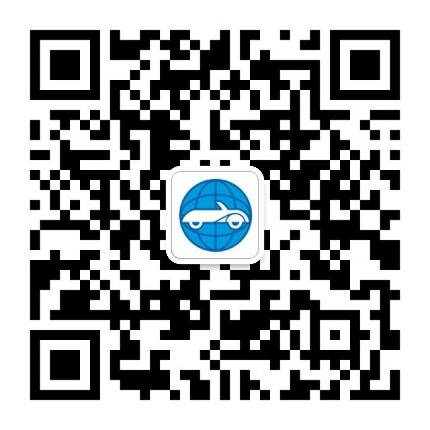
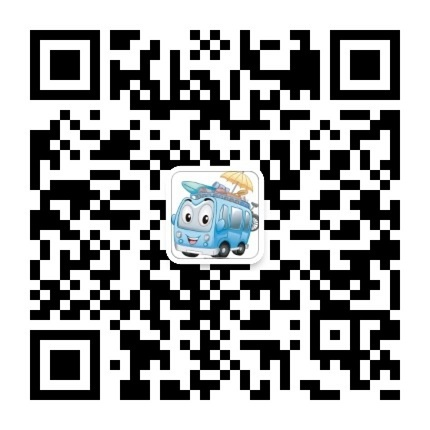
update

diff --git a/app/Http/Controllers/WeChatsController.php b/app/Http/Controllers/WeChatsController.php
@@ -120,12 +120,12 @@ class WeChatsController extends Controller
                     [
                         "type" => "view",
                         "name"=>"违章处理",
-                        "url"=>"http://www.cttx-zbx.com/violates/inquire",
+                        "url"=>"http://www.weizhangxiaoxiao.com/violates/inquire",
                     ],
                     [
                         "type" => "view",
                         "name"=>"罚款缴纳",
-                        "url"=>"http://www.cttx-zbx.com/penalties/inquire",
+                        "url"=>"http://www.weizhangxiaoxiao.com/penalties/inquire",
                     ]
                 ]
             ],
@@ -135,17 +135,17 @@ class WeChatsController extends Controller
                     [
                         "type" => "view",
                         "name"=>"汽车审验",
-                        "url"=>"http://www.cttx-zbx.com/",
+                        "url"=>"http://www.weizhangxiaoxiao.com/",
                     ],
                     [
                         "type" => "view",
                         "name"=>"过户上户",
-                        "url"=>"http://www.cttx-zbx.com/",
+                        "url"=>"http://www.weizhangxiaoxiao.com/",
                     ],
                     [
                         "type" => "view",
                         "name"=>"事故查询",
-                        "url"=>"http://www.cttx-zbx.com/",
+                        "url"=>"http://www.weizhangxiaoxiao.com/",
                     ]
                 ]
             ],
@@ -155,12 +155,12 @@ class WeChatsController extends Controller
                     [
                         "type" => "view",
                         "name"=>"订单信息",
-                        "url"=>"http://www.cttx-zbx.com/",
+                        "url"=>"http://www.weizhangxiaoxiao.com/",
                     ],
                     [
                         "type" => "view",
                         "name"=>"联系我们",
-                        "url"=>"http://www.cttx-zbx.com/contact/us",
+                        "url"=>"http://www.weizhangxiaoxiao.com/contact/us",
                     ]
                 ]
             ]
@@ -184,11 +184,11 @@ class WeChatsController extends Controller
     public function send_message_to_server_paid($name, $bz, $order_money, $remark)
     {
         $app = app('wechat.official_account');
-        $serverUser = ["oiGyj0gWZdBklqN79Rmq8MS9cRq4", "oiGyj0vmN3G2pLa2PRNkZUa2aXbA", "oiGyj0im2uCtxHX3_oFct-BDyOuA"];
+        $serverUser = ["oiGyj0gWZdBklqN79Rmq8MS9cRq4", "oiGyj0vmN3G2pLa2PRNkZUa2aXbA"];
         foreach ($serverUser as $user) {
             $app->template_message->send([
                 'touser' => $user,
-                'template_id' => 'PaVE-B8jRrmxJbbA1wYr1ccajHwPA86iy8Pym38PO68',
+                'template_id' => '9qcIi1wu2OZGH8FLmgmN1_p8tnwteD1JCBDBf4zjxF4',
                 'url' => 'https://easywechat.org',
                 'data' => [
                     'first' => '通知',
@@ -216,7 +216,7 @@ class WeChatsController extends Controller
 //        foreach ($serverUser as $user) {
             $app->template_message->send([
                 'touser' => $useropenid,
-                'template_id' => 'woJutUJcePy4JzTM6s3uRK2AOYy6BAQS_dGO8Du1SCw',
+                'template_id' => 'TXyFUPqrBzQDf33dCh49nezHr3RdLQrP7VrrodKejF0',
                 'url' => 'http://www.cttx-zbx.com/order/get',
                 'data' => [
                     'first' => '付款成功提醒',

diff --git a/resources/views/corporation/contact_us.blade.php b/resources/views/corporation/contact_us.blade.php
@@ -18,25 +18,25 @@
                     <div class="form-group">
                         <div class="input-group">
                             <div class="input-group-addon">{{ __('座 机') }}</div>
-                            <a type="text" class="form-control" href="tel:028-62561692">028-62561692</a>
+                            <a type="text" class="form-control" href="tel:028-62561692">028-64363802</a>
                         </div>
                     </div>
                     <div class="form-group">
                         <div class="input-group">
                             <div class="input-group-addon">{{ __('手 机') }}</div>
-                            <a type="text" class="form-control" href="tel:13194893073">13194893073</a>
+                            <a type="text" class="form-control" href="tel:13194893073">13308000058</a>
                         </div>
                     </div>
                     <div class="form-group">
                         <div class="input-group">
                             <div class="input-group-addon">{{ __('邮 件') }}</div>
-                            <a type="text" class="form-control" href="mailto:3325815724@qq.com">3325815724@qq.com</a>
+                            <a type="text" class="form-control" href="mailto:3325815724@qq.com">68518537@qq.com</a>
                         </div>
                     </div>
                     <div class="form-group">
                         <div class="input-group">
                             <div class="input-group-addon">{{ __('微 信') }}</div>
-                            <a type="text" class="form-control" href="tel:13194893073">13194893073</a>
+                            <a type="text" class="form-control" href="tel:13194893073">13308000058</a>
                         </div>
                     </div>
                     <div class="form-group">
@@ -45,7 +45,7 @@
                     <div class="form-group">
                         <div class="input-group">
                             <div class="input-group-addon">{{ __('公众号') }}</div>
-                            <a type="text" class="form-control" href="https://mp.weixin.qq.com/mp/profile_ext?action=home&__biz=MzUzMzkyNTUxMg==#wechat_redirect" >车途天下</a>
+                            <a type="text" class="form-control" href="https://mp.weixin.qq.com/mp/profile_ext?action=home&__biz=MzUzMzkyNTUxMg==#wechat_redirect" >违章消消</a>
                         </div>
                     </div>
                     <div class="form-group">

diff --git a/storage/framework/views/a0a0170490219315c0baf028560eb5ef6cd344b9.php b/storage/framework/views/a0a0170490219315c0baf028560eb5ef6cd344b9.php
@@ -48,7 +48,7 @@
                     <div class="form-group">
                         <div class="input-group">
                             <div class="input-group-addon"><?php echo e(__('公众号')); ?></div>
-                            <a type="text" class="form-control" href="https://mp.weixin.qq.com/mp/profile_ext?action=home&__biz=MzUzMzkyNTUxMg==#wechat_redirect" >车途天下</a>
+                            <a type="text" class="form-control" href="https://mp.weixin.qq.com/mp/profile_ext?action=home&__biz=MzUzMzkyNTUxMg==#wechat_redirect" >违章消消</a>
                         </div>
                     </div>
                     <div class="form-group">

diff --git a/config/adminlte.php b/config/adminlte.php
@@ -13,7 +13,7 @@ return [
     |
     */
 
-    'title' => '车途天下',
+    'title' => '违章消消',
 
     'title_prefix' => '',
 
@@ -30,9 +30,9 @@ return [
     |
     */
 
-    'logo' => '<b>车途</b>天下',
+    'logo' => '<b>违章</b>消消',
 
-    'logo_mini' => '<b>车</b>途',
+    'logo_mini' => '<b>消</b>消',
 
     /*
     |--------------------------------------------------------------------------
